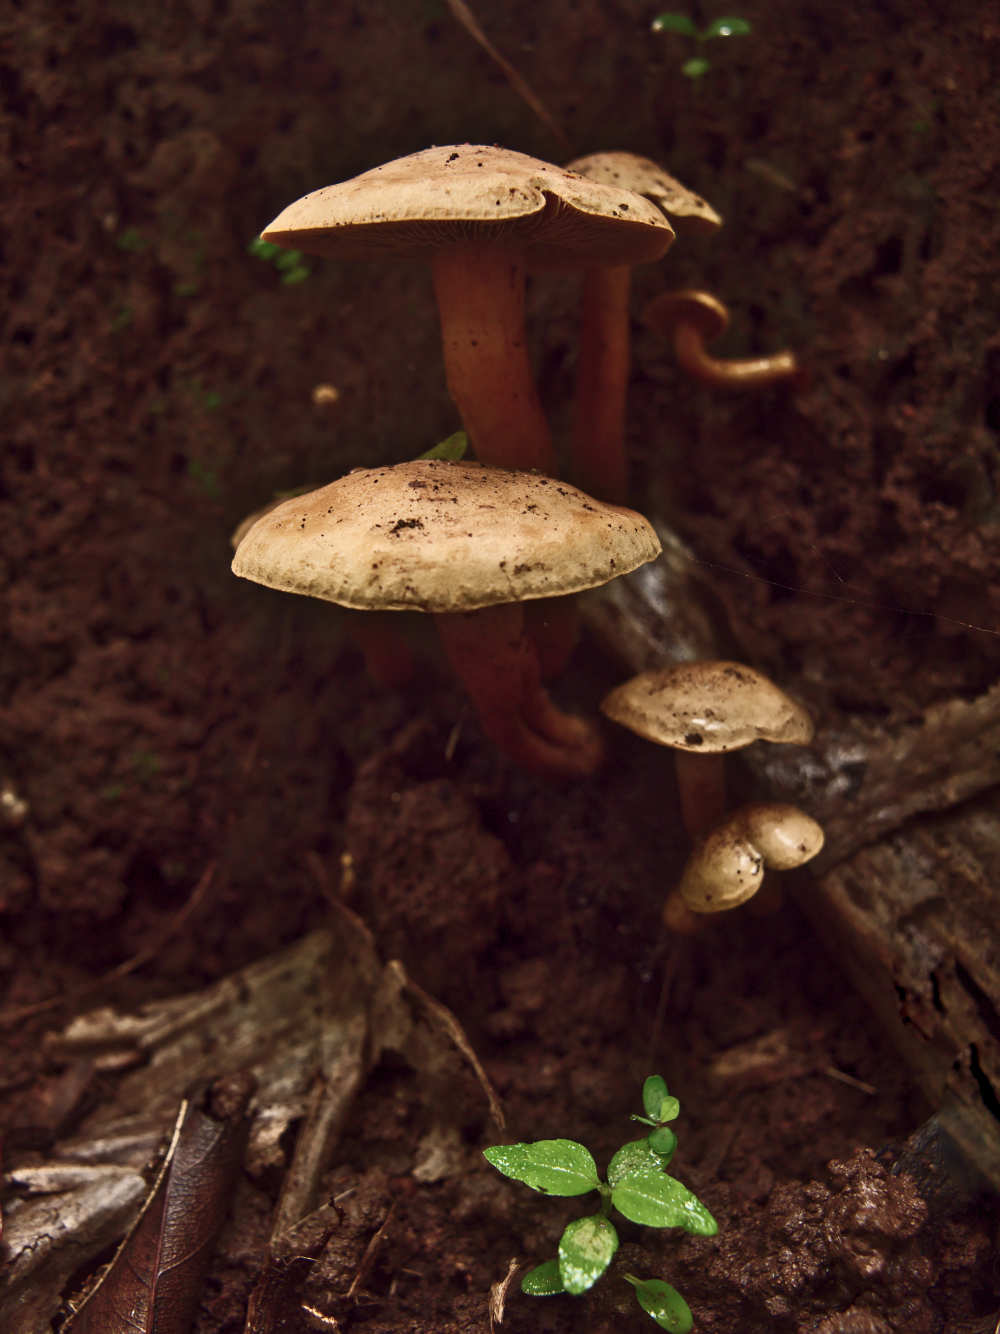
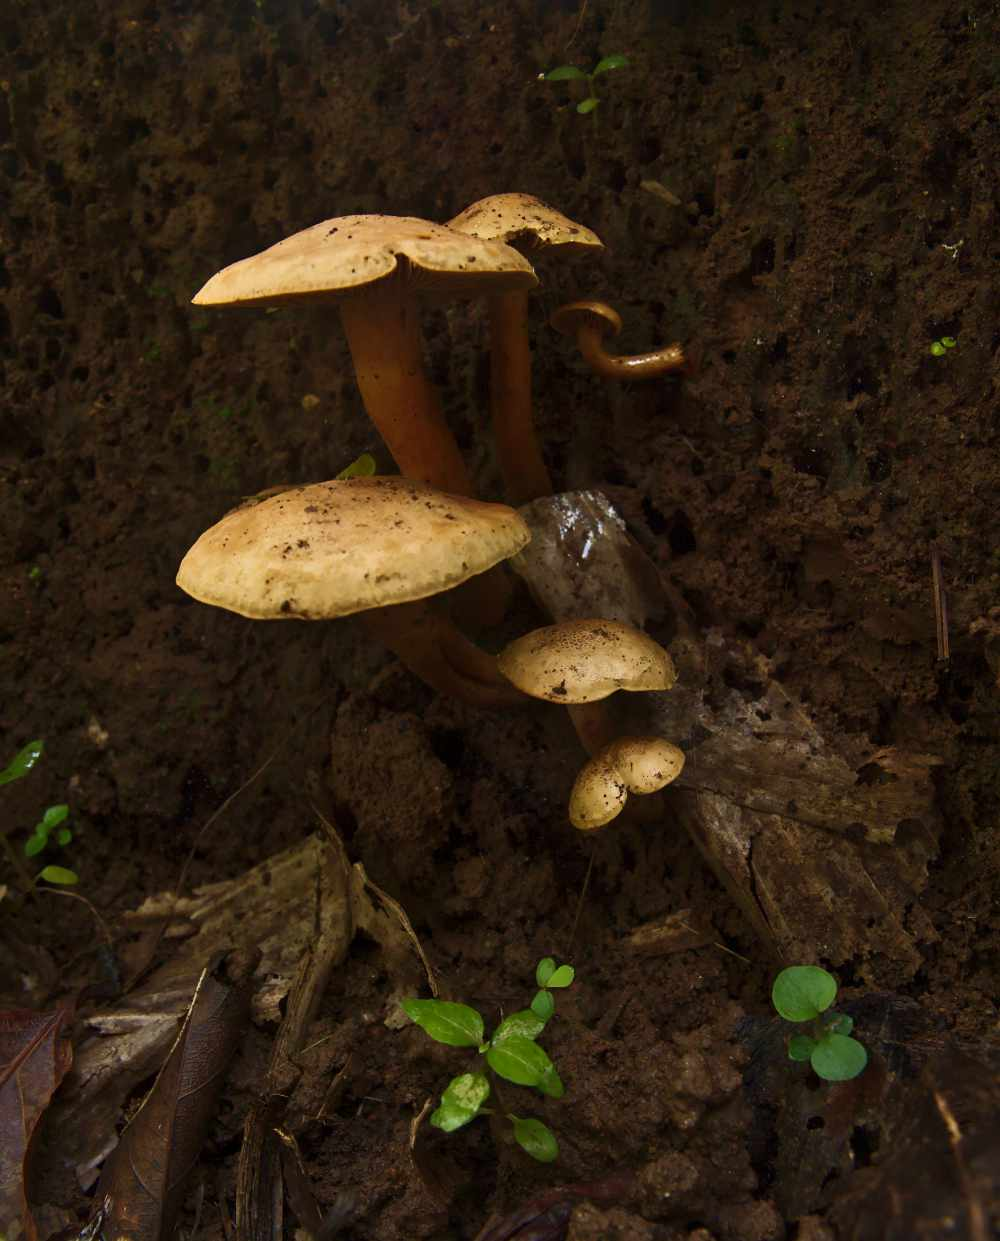
new nature photo

diff --git a/gallery/y2021/nat.html b/gallery/y2021/nat.html
@@ -34,46 +34,53 @@
 
 	<!-- Full-width images with number and caption text -->
 	<div class="mySlides fade">
-	  <div class="numbertext">1 / 6</div>
+	  <div class="numbertext">1 / 7</div>
 	  <img src="../../images/photos/y2021/nature/nat_08032021_01_lq.jpg"
 	       alt="forest tree"
 	       style="width:100%"></img>
 	</div>
 
 	<div class="mySlides fade">
-	  <div class="numbertext">2 / 6</div>
+	  <div class="numbertext">2 / 7</div>
 	  <img src="../../images/photos/y2021/nature/nat_21032021_01_lq.jpg"
 	       alt="leaves and light"
 	       style="width:100%"></img>
 	</div>
 
 	<div class="mySlides fade">
-	  <div class="numbertext">3 / 6</div>
+	  <div class="numbertext">3 / 7</div>
 	  <img src="../../images/photos/y2021/nature/nat_27032021_01_lq.jpg"
 	       alt="portrait of a fern"
 	       style="width:100%"></img>
 	</div>
 
 	<div class="mySlides fade">
-	  <div class="numbertext">4 / 6</div>
+	  <div class="numbertext">4 / 7</div>
 	  <img src="../../images/photos/y2021/nature/nat_22032021_01_lq.jpg"
 	       alt="sand stone pebbles"
 	       style="width:100%"></img>
 	</div>
 
 	<div class="mySlides fade">
-	  <div class="numbertext">5 / 6</div>
+	  <div class="numbertext">5 / 7</div>
 	  <img src="../../images/photos/y2021/nature/nat_23052021_01_lq.jpg"
 	       alt="figs"
 	       style="width:100%"></img>
 	</div>
 
 	<div class="mySlides fade">
-	  <div class="numbertext">6 / 6</div>
+	  <div class="numbertext">6 / 7</div>
 	  <img src="../../images/photos/y2021/nature/nat_24052021_01_lq.jpg"
 	       alt="mushrooms"
 	       style="width:100%"></img>
 	</div>
+
+	<div class="mySlides fade">
+	  <div class="numbertext">7 / 7</div>
+	  <img src="../../images/photos/y2021/nature/nat_25052021_01_lq.jpg"
+	       alt="under the fig tree"
+	       style="width:100%"></img>
+	</div>	
 
 	<!-- Next and previous buttons -->
 	<a class="prev" onclick="plusSlides(-1)">&#10094;</a>
@@ -89,6 +96,7 @@
 	<span class="dot" onclick="currentSlide(4)"></span>
 	<span class="dot" onclick="currentSlide(5)"></span>
 	<span class="dot" onclick="currentSlide(6)"></span>
+	<span class="dot" onclick="currentSlide(7)"></span>
       </div>
 
       <!-- End Page Content -->
